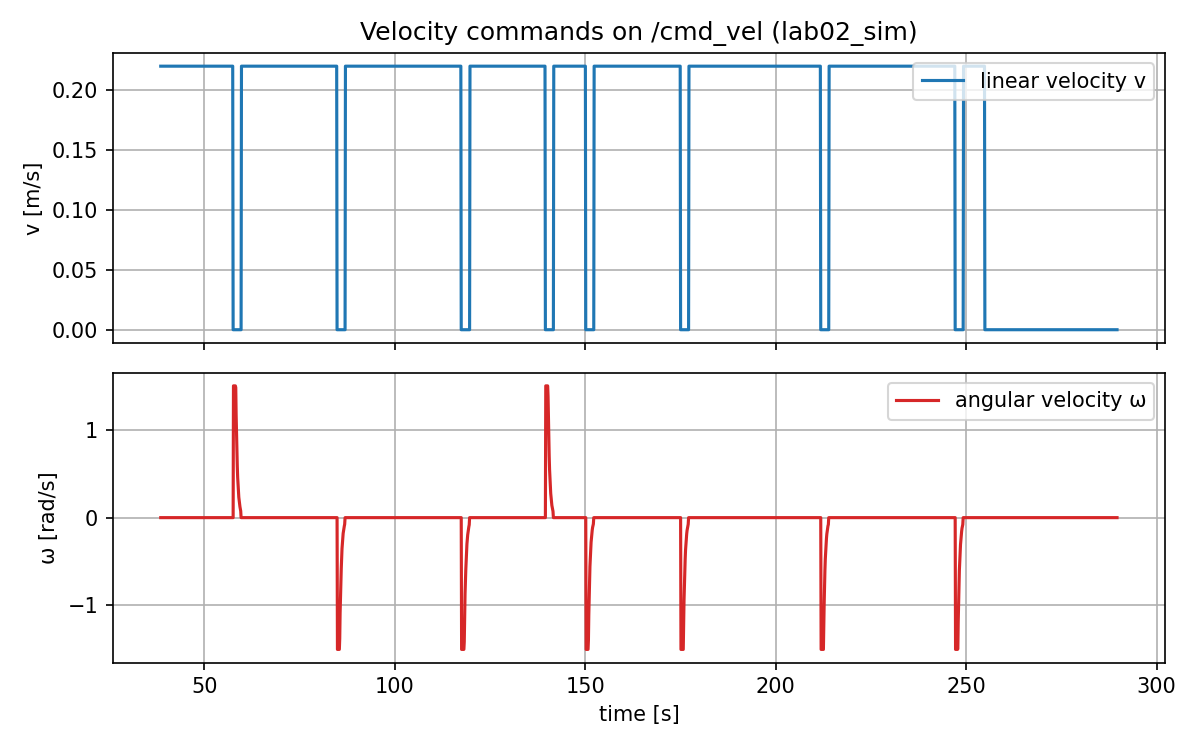
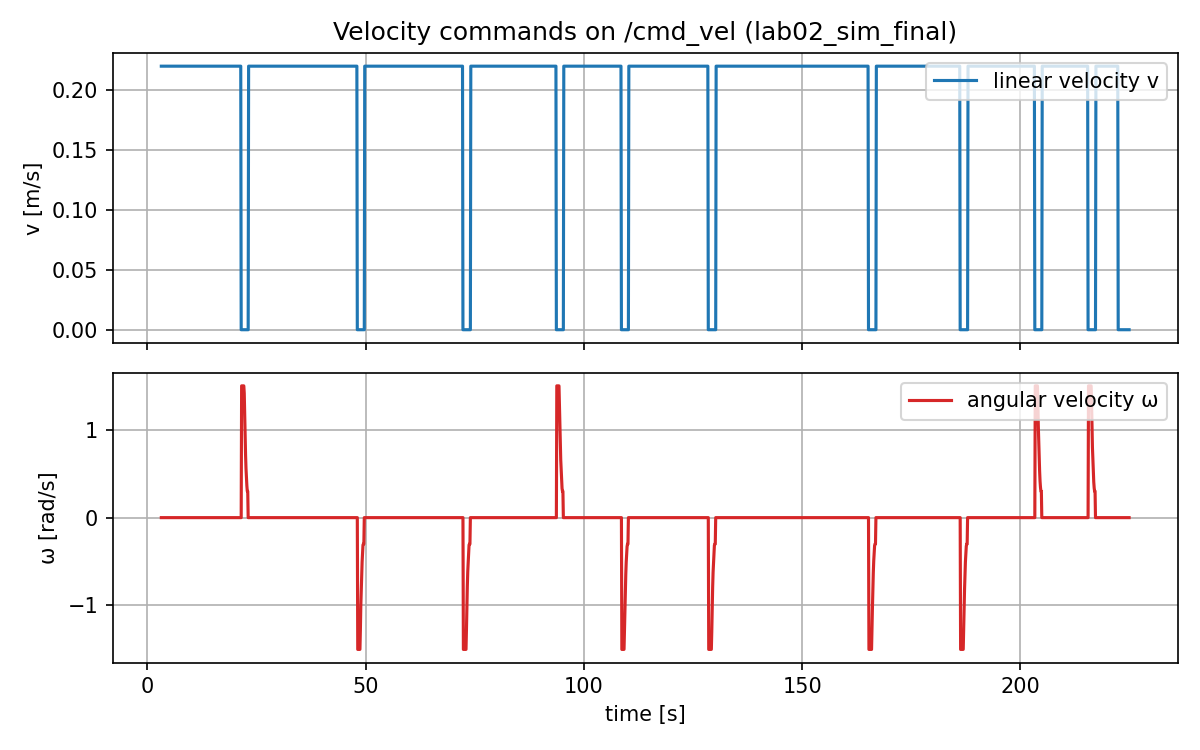
README: final simulation results, EKF section

diff --git a/README.md b/README.md
@@ -3,6 +3,9 @@
 **A Bump&Go controller that drives a TurtleBot3 through a maze — in simulation and on the real robot.**
 **一个让 TurtleBot3 自己走出迷宫的 Bump&Go 控制器：仿真和真车都能跑。**
 
+**Now also: EKF localization with landmarks, on the [`ekf` branch](https://github.com/Denvolatos/SESASR-SIQUBro/tree/ekf).**
+**新增：基于地标的 EKF 定位，代码在 [`ekf` 分支](https://github.com/Denvolatos/SESASR-SIQUBro/tree/ekf)。**
+
 Group repository for the labs of *Sensors, Embedded Systems and Algorithms for Service Robotics* (SESASR), Politecnico di Torino.
 都灵理工大学《服务机器人传感器、嵌入式系统与算法》（SESASR）课程实验小组仓库。
 
@@ -27,13 +30,15 @@ Group repository for the labs of *Sensors, Embedded Systems and Algorithms for S
 |---|---|---|
 | Lab02 | Gazebo simulation + Bump&Go · 仿真 + Bump&Go | R01 |
 | Lab03 / Lab04 | Real TurtleBot3 · 真车测试 | R01 |
+| EKF lab (schedule Lab 5–7) · EKF 实验（课表 Lab 5–7） | EKF localization: simulation done, real robot still to do · EKF 定位：仿真已完成，真车待做 | R02 |
 
 ## 🗂 Repository structure / 仓库结构
 
 ```
 SESASR-SIQUBro/
 ├── src/                  # ROS 2 packages · ROS 2 包
-│   └── lab02_pkg/        # Bump&Go: node, controller, LiDAR utils, configs, launch, tests · 节点、算法、雷达、参数、启动、测试
+│   ├── lab02_pkg/        # Bump&Go: node, controller, LiDAR utils, configs, launch, tests · 节点、算法、雷达、参数、启动、测试
+│   └── lab04_pkg/        # EKF localization (ekf branch) · EKF 定位（在 ekf 分支）
 ├── scripts/              # plot_bag.py (report plots), dead-zone test tools · 画图脚本、死区测试工具
 ├── docs/                 # guides and example plots · 指南和示例图
 ├── build/                # generated by colcon · 构建中间文件
@@ -61,12 +66,26 @@ Full instructions / 完整步骤 → [Operation Guide](docs/OPERATION_GUIDE.md)
 
 ## ✅ Result in simulation / 仿真结果
 
-Goal reached after 8 turns in ~4 min; odometry error vs ground truth: 0.022 m at the end, 0.089 m maximum.
-转弯 8 次、约 4 分钟到达终点；里程计相对真实位置的误差：结束时 0.022 m，最大 0.089 m。
+Final code: goal reached after 10 turns in 220 s; odometry error vs ground truth: 0.069 m at the end, 0.073 m maximum.
+最终版代码：转弯 10 次、220 秒到达终点；里程计相对真实位置的误差：结束时 0.069 m，最大 0.073 m。
 
 | Velocity commands / 速度指令 | Odometry error / 里程计误差 |
 |---|---|
 | ![cmd_vel](docs/images/lab02_sim_cmd_vel.png) | ![odom error](docs/images/lab02_sim_odom_error.png) |
+
+## 🧭 EKF localization / EKF 定位
+
+On the [`ekf` branch](https://github.com/Denvolatos/SESASR-SIQUBro/tree/ekf), package `lab04_pkg`. In simulation (150 s runs), the position RMSE of `/ekf` against the ground truth was about 0.010 m, compared with about 0.019 m for `/odom`. It has not been run on the real robot yet.
+
+代码在 [`ekf` 分支](https://github.com/Denvolatos/SESASR-SIQUBro/tree/ekf) 的 `lab04_pkg` 包。仿真中（每次 150 秒），`/ekf` 相对真实位置的位置 RMSE 约 0.010 m，`/odom` 约 0.019 m。还没有在真车上运行。
+
+```bash
+git checkout ekf
+ros2 launch lab04_pkg ekf.launch.py               # simulation · 仿真
+ros2 launch lab04_pkg ekf.launch.py fusion:=true  # with odometry and IMU fusion · 融合里程计和 IMU
+```
+
+It needs the course package [`turtlebot3_perception`](https://github.com/SESASR-Course/turtlebot3_perception). / 需要课程的 `turtlebot3_perception` 包。
 
 ## 👥 Meet the SIQUBro crew / 认识一下 SIQUBro 小分队
 
